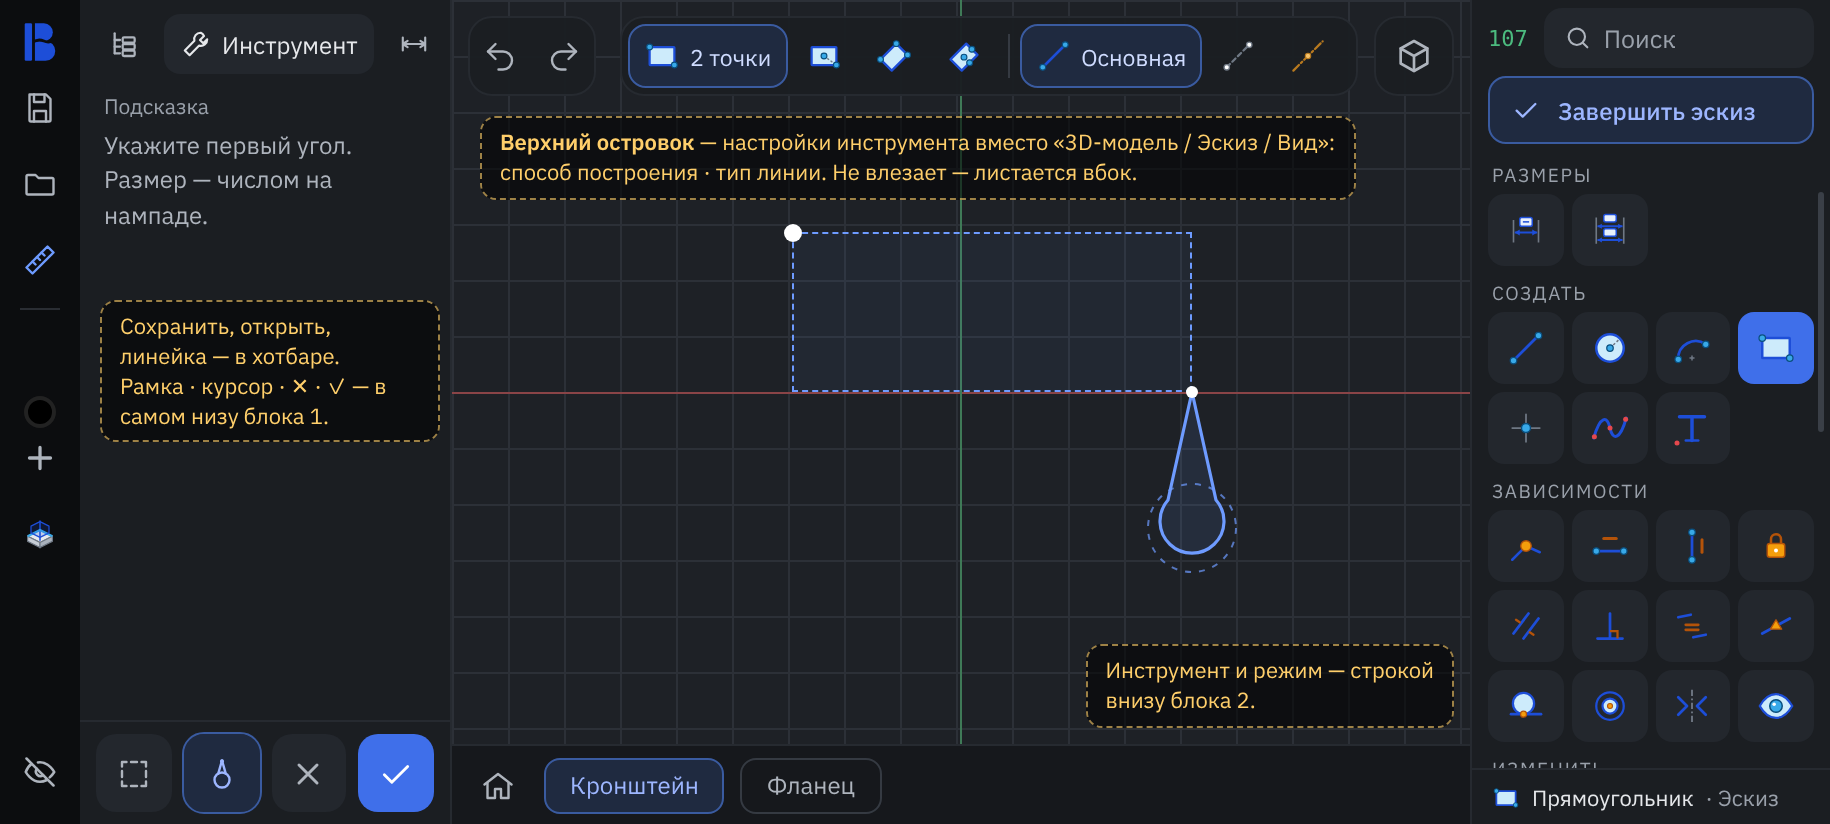
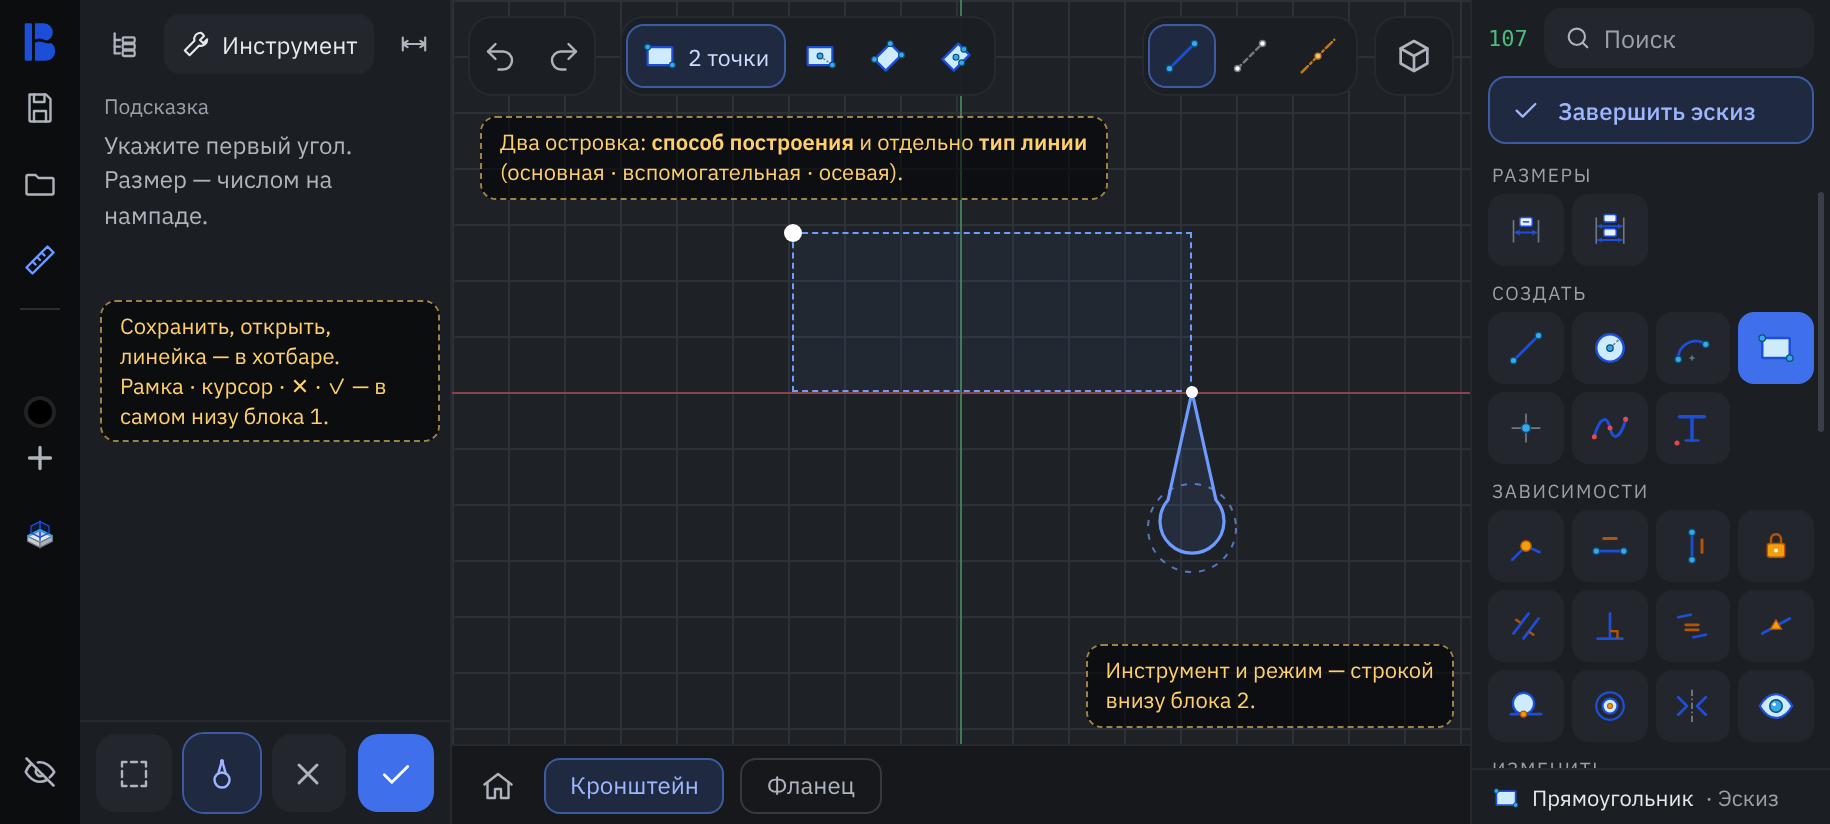
docs: иконки режимов операций и макеты их места (телефон и ПК)
What: 14 черновых иконок (операция: добавить/вырезать/пересечение/новое
тело; направление выдавливания: вверх/вниз/в обе поровну/по-разному;
глубина: на расстояние/до грани/насквозь; вращение: полный/угол/в обе
стороны) и макеты: 7a — тип линии отдельным островком, 7c — выдавливание
на телефоне с иконками в островке, 8a — панель выдавливания на ПК строками
как в КОМПАС-3D, 8b — лист иконок.
Why: автор 18.10 — вместо текстовых полос нужны маленькие картинки,
и на ПК тоже.
Where: assets/icons/{op,dir,ext,rev}-*.svg (в коде пока не используются),
docs/dev/mockups/gen.py (разделы 7–8, размер страницы по макету,
в тёмных макетах стрелки #3D4552 светлеют — предложение для Icons.cpp).
Tested: python3 gen.py 7a-sketch-tool 7c-extrude-icons 8a-desktop-extrude,
снимки просмотрены.

Claude-Session: https://claude.ai/code/session_019w5jQ5R6Z3iBV8qEzvUU97

Changed region(s): [[0.2803, 0.1517, 0.7475, 0.2427], [0.3426, 0.0303, 0.6852, 0.1214]]

diff --git a/docs/dev/mockups/gen.py b/docs/dev/mockups/gen.py
@@ -7,10 +7,11 @@ ICONS = '/home/claude/breezecad/assets/icons'
 HERE = os.path.dirname(os.path.abspath(__file__))
 
 
-def icon(name, size=18, color='#AEB4BD', style=''):
+def icon(name, size=18, color='#AEB4BD', style='', dark=True):
     p = os.path.join(ICONS, name + '.svg')
     s = open(p).read()
     s = s.replace('currentColor', color)
+    if dark: s = s.replace('#3D4552', '#C9D1DB')   # proposed: dark arrows turn light in the dark theme
     s = re.sub(r'<svg ', f'<svg width="{size}" height="{size}" style="flex:none;{style}" ', s, count=1)
     return s
 
@@ -100,6 +101,7 @@ def note(text, style):
 
 # ---------------------------------------------------------------------------------
 pages = {}
+SIZES = {}
 
 # 1a. The hotbar: "Скрыть управление" at the bottom (was the palette).
 pages['1a-hotbar'] = page(camera() + block1() + view() + block2_list() + strip() +
@@ -462,6 +464,92 @@ pages['7b-extrude-ready'] = page(hotbar7() + b1_7b + view_7b + b2_7b + strip()
     + note('Не влезло — край гаснет, полоска снизу,<br>листается вбок.', 'left:420px;top:56px'), R7_CSS)
 
 
+# 7c. The extrude on the phone with icon buttons in the top island (the author 18.10: "нужны маленькие картинки").
+OPS = [('op-join', 'Добавить к телу'), ('op-cut', 'Вырезать из тела'), ('op-intersect', 'Оставить пересечение'), ('op-new', 'Новое тело')]
+DIRS = [('dir-up', 'Вверх (по нормали эскиза)'), ('dir-down', 'Вниз (против нормали)'), ('dir-both', 'В обе стороны поровну'),
+        ('dir-asym', 'В обе стороны, разные расстояния')]
+DEPTH = [('ext-distance', 'На расстояние'), ('ext-to', 'До плоскости или грани'), ('ext-through', 'Насквозь')]
+R7C_CSS = R7_CSS + """
+.ti7 .m.ic{padding:0;width:30px;min-width:30px}
+.ti7 .sep{margin:0 2px}
+.tip{background:#0f1113;border:1px solid var(--border);border-radius:8px;padding:5px 9px;font-size:11.5px;color:var(--text);z-index:60;box-shadow:0 6px 16px rgba(0,0,0,.5)}
+.tip:after{content:'';position:absolute;left:50%;top:-6px;margin-left:-5px;border:5px solid transparent;border-top:none;border-bottom-color:#0f1113}
+"""
+
+
+def icon_group(items, on):
+    return ''.join(f'<div class="m ic{" on" if n == on else ""}">{icon(n, 22)}</div>' for n, _ in items)
+
+
+ti_7c = ('<div class="abs isl ti7" style="padding:0 3px;gap:1px">' + icon_group(OPS, 'op-join') + '<div class="sep"></div>'
+         + icon_group(DIRS, 'dir-up') + '<div class="sep"></div>' + icon_group(DEPTH, 'ext-distance') + '</div>')
+view_7c = f'<div class="abs view"><div class="abs" style="left:110px;top:90px">{MODEL}</div>{PREVIEW}{AXIS3}{islands7(ti_7c)}</div>'
+pages['7c-extrude-icons'] = page(hotbar7() + b1_7b + view_7c + b2_7b + strip()
+    + '<div class="abs tip" style="left:614px;top:62px">Насквозь</div>'
+    + note('Островок: <b>операция</b> (добавить · вырезать · пересечение · новое тело) │ <b>направление</b><br>'
+           '(вверх · вниз · поровну в обе · по-разному в обе) │ <b>глубина</b> (расстояние · до грани · насквозь).<br>'
+           'Помещается целиком. Зажатие кнопки — подсказка с названием.', 'left:240px;top:290px'), R7C_CSS)
+
+# 7a with the line types as an island of their own (the author 18.10).
+LT_ISL = (f'<div class="abs isl ti7" style="left:auto;right:56px;width:auto;padding:0 3px;gap:2px"><div class="m ic on">{icon("sk-line", 20, "#cfdcff")}</div>'
+          f'<div class="m ic">{icon("sk-construction", 20)}</div><div class="m ic">{icon("sk-centerline", 20)}</div></div>')
+ti_7a2 = (f'<div class="abs isl ti7" style="right:auto;padding:0 3px;gap:2px"><div class="m on">{icon("sk-rectangle", 18, "#cfdcff")}2 точки</div>'
+          f'<div class="m ic">{icon("sk-rect-centre", 18)}</div><div class="m ic">{icon("sk-rect-3pt", 18)}</div><div class="m ic">{icon("sk-rect-3pt-centre", 18)}</div></div>'
+          + LT_ISL)
+view_7a2 = (f'<div class="abs view" style="background:none">{GRID}{AXES}'
+            '<div class="abs" style="left:170px;top:116px;width:200px;height:80px;border:1.6px dashed #6E9BFF;background:rgba(110,155,255,.06)"></div>'
+            f'<div class="abs" style="left:166px;top:112px;width:9px;height:9px;border-radius:50%;background:#fff"></div>{DROP}'
+            f'{islands7(ti_7a2)}</div>')
+pages['7a-sketch-tool'] = page(hotbar7() + b1_7a + view_7a2 + b2_7a + strip()
+    + note('Два островка: <b>способ построения</b> и отдельно <b>тип линии</b><br>(основная · вспомогательная · осевая).', 'left:240px;top:58px')
+    + note('Сохранить, открыть, линейка — в хотбаре.<br>Рамка · курсор · ✕ · ✓ — в самом низу блока 1.', 'left:50px;top:150px;width:170px')
+    + note('Инструмент и режим — строкой<br>внизу блока 2.', 'right:188px;bottom:48px'), R7C_CSS + '.ti7 .m.ic{padding:0;width:32px;min-width:32px}')
+
+# 8a. The desktop: the same icon buttons in the tool panel, rows like KOMPAS-3D (caption on the left, buttons on the right).
+SIZES['8a-desktop-extrude'] = (1060, 640)
+D_CSS = """
+body{width:1060px;height:640px;background:#EEF0F3;color:#1F2328;font-size:12.5px}
+.rail{left:0;top:0;bottom:0;width:52px;background:#F4F5F7;border-right:1px solid #E1E4E8;display:flex;flex-direction:column;align-items:center;gap:22px;padding-top:18px}
+.pn{left:52px;top:0;bottom:0;width:330px;background:#FBFBFC;border-right:1px solid #E1E4E8}
+.pn .hd{height:52px;display:flex;align-items:center;gap:10px;padding:0 16px;font-weight:600;border-bottom:1px solid #E8EBEE}
+.pn .sec{font-size:11.5px;color:#6B7280;padding:14px 16px 6px}
+.pn .chip{margin:0 16px 6px;height:34px;border-radius:8px;border:1.5px solid #3F6FEA;background:#EEF3FF;display:flex;align-items:center;padding:0 12px;gap:8px;font-weight:500;color:#1F3A8A;font-size:12.5px}
+.pn .rw{display:flex;align-items:center;padding:5px 16px}
+.pn .rw .lb{width:92px;color:#4B5563}
+.pn .bt{width:34px;height:34px;border-radius:8px;border:1px solid #D7DBE0;background:#fff;display:flex;align-items:center;justify-content:center;margin-right:4px}
+.pn .bt.on{background:#E6EDFF;border:1.5px solid #3F6FEA}
+.pn .fld{margin:0 16px;height:36px;border-radius:8px;border:1px solid #D7DBE0;background:#fff;display:flex;align-items:center;padding:0 10px;gap:6px}
+.pn .ft{position:absolute;left:0;right:0;bottom:0;height:64px;border-top:1px solid #E8EBEE;display:flex;gap:8px;padding:14px 16px}
+.pn .ft div{flex:1;border-radius:8px;border:1px solid #D7DBE0;background:#fff;display:flex;align-items:center;justify-content:center;font-weight:500}
+.pn .ft .go{background:#1D4ED8;border-color:#1D4ED8;color:#fff}
+.dv{left:382px;right:0;top:0;bottom:0;background:linear-gradient(#F7F8FA,#E6E9ED)}
+.dtip{background:#1F2328;color:#fff;border-radius:6px;padding:5px 9px;font-size:11.5px;z-index:60}
+.note{color:#7A4B00;background:#FFF6DD;border-color:#E2B33C}
+"""
+
+
+def drow(label, items, on, hover=None):
+    hv = ' style="border-color:#9AA8C2;background:#F3F5F8"'
+    bts = ''.join(f'<div class="bt{" on" if n == on else ""}"{hv if n == hover else ""}>{icon(n, 22, dark=False)}</div>' for n, _ in items)
+    return f'<div class="rw"><span class="lb">{label}</span>{bts}</div>'
+
+
+pn = (f'<div class="abs pn"><div class="hd">{icon("extrude", 22, dark=False)}Выдавливание1<span style="margin-left:auto">{icon("ui-close", 16, "#6B7280")}</span></div>'
+      f'<div class="sec">Профиль · 2</div><div class="chip">{icon("ui-check", 14, "#3F6FEA")}Контур 1<span style="margin-left:auto">{icon("ui-close", 13, "#3F6FEA")}</span></div>'
+      f'<div class="chip">{icon("ui-check", 14, "#3F6FEA")}Контур 2<span style="margin-left:auto">{icon("ui-close", 13, "#3F6FEA")}</span></div>'
+      '<div style="height:8px"></div>'
+      + drow('Операция', OPS, 'op-join') + drow('Направление', DIRS, 'dir-up') + drow('Глубина', DEPTH, 'ext-distance', 'ext-through')
+      + f'<div class="sec">Расстояние</div><div class="fld">20<span style="margin-left:auto;color:#9AA1AB">мм</span>{icon("ui-fx", 14, "#6B7280")}</div>'
+      + '<div class="sec">Уклон</div><div class="fld">0<span style="margin-left:auto;color:#9AA1AB">°</span></div>'
+      + '<div class="ft"><div>Отмена</div><div>Применить</div><div class="go">Готово</div></div></div>')
+rail = f'<div class="abs rail">{icon("ui-tree", 20, "#4B5563")}{icon("ui-sliders", 20, "#3F6FEA")}{icon("ui-fx", 20, "#4B5563")}</div>'
+dview = f'<div class="abs dv"><div class="abs" style="left:170px;top:170px;transform:scale(1.5);transform-origin:0 0">{MODEL}{PREVIEW.replace("left:110px;top:50px", "left:0;top:-40px")}</div></div>'
+pages['8a-desktop-extrude'] = page(rail + pn + dview
+    + '<div class="abs dtip" style="left:266px;top:296px">Насквозь</div>'
+    + note('ПК: те же иконки в панели инструмента, строками как в КОМПАС-3D —<br>подпись слева, кнопки справа. Наведение — подсказка с названием.<br>'
+           'Текстовые полосы «Прямое / Обратное / В обе стороны» уходят.', 'left:420px;top:24px'), D_CSS)
+
+
 if __name__ == '__main__':
     only = sys.argv[1:]
     with sync_playwright() as p:
@@ -471,6 +559,7 @@ if __name__ == '__main__':
             if only and name not in only: continue
             f = os.path.join(HERE, name + '.html')
             open(f, 'w').write(html)
+            pg.set_viewport_size(dict(zip(('width', 'height'), SIZES.get(name, (915, 412)))))
             pg.goto('file://' + f)
             pg.wait_for_timeout(250)
             pg.screenshot(path=os.path.join(HERE, name + '.png'))
